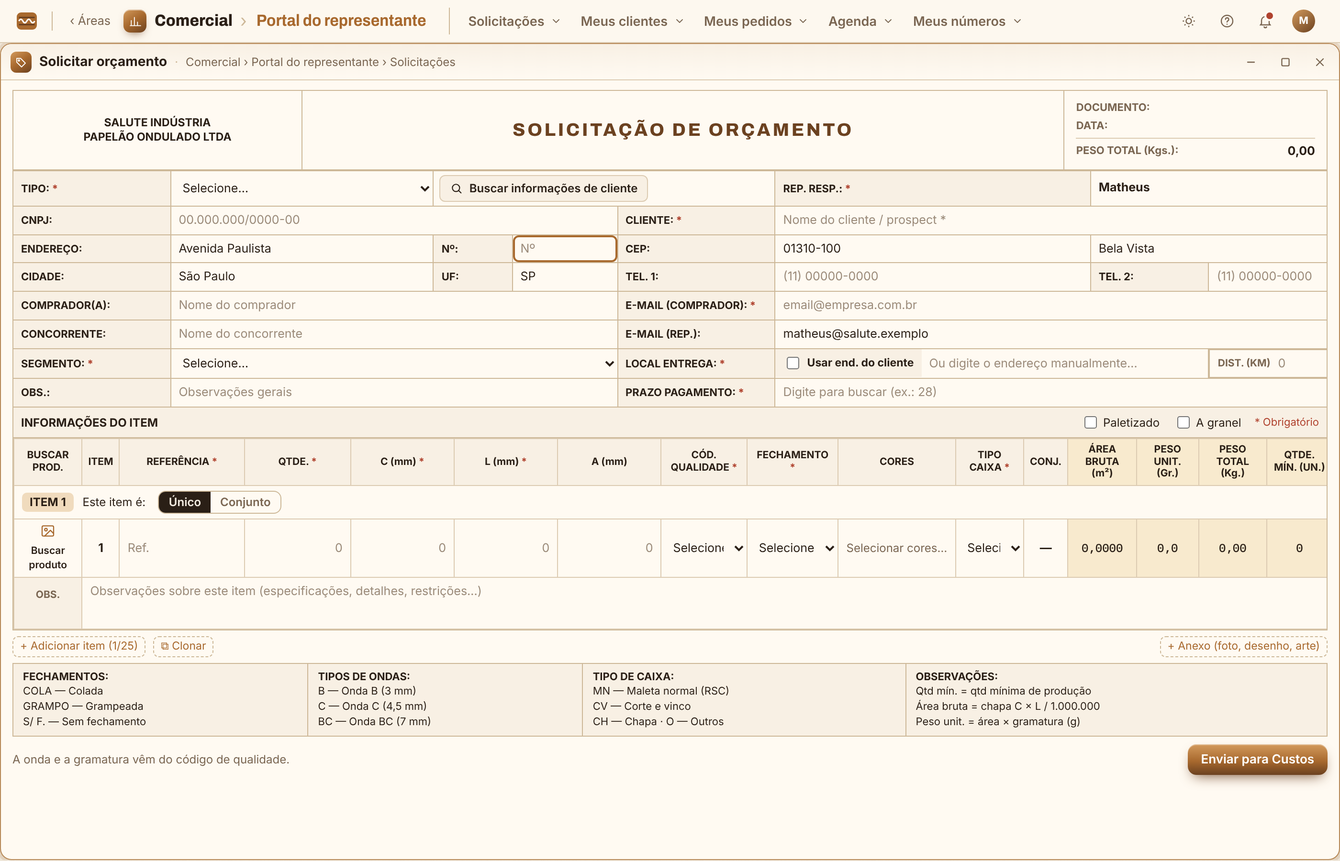
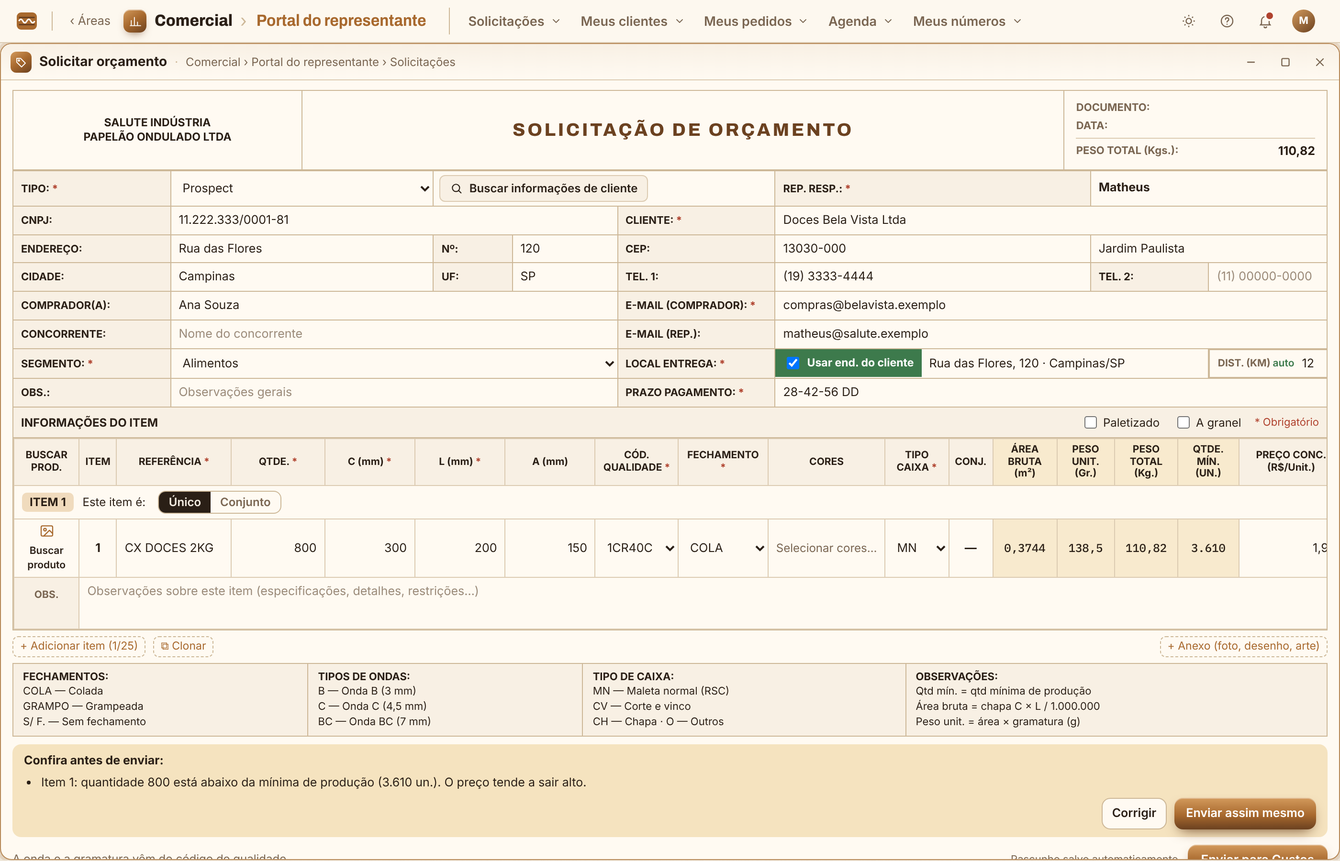
Solicitação de orçamento: CNPJ pela Receita, aviso de outra carteira, carteira com 'gerar solicitação', rascunho, distância, conferência, preço-alvo e sino de preço pronto
Claude-Session: https://claude.ai/code/session_015kL8p4eCaL1huCADCSMStj

diff --git a/prototipo/tela-inicial-e-comercial.html b/prototipo/tela-inicial-e-comercial.html
@@ -602,6 +602,22 @@ textarea.falta{border-color:var(--bad)!important}
 .so-lista small{color:var(--muted)}
 .so-dest select{background:var(--warn-soft)}
 .so-cep{position:relative}
+.so-rasc{display:flex;align-items:center;gap:8px;margin-bottom:6px;padding:5px 10px;border-radius:8px;background:var(--surface-2);font-size:12.5px}
+.so-rasc .mini{margin-left:auto;padding:3px 8px;font-size:12px}
+.so-av{margin:6px 0 0}
+.so-dist span i{font-style:normal;color:var(--ok);font-weight:600}
+.so-confere{margin-top:8px;padding:8px 12px;border-radius:9px;background:var(--warn-soft);font-size:12.5px}
+.so-confere ul{margin:4px 0 6px;padding-left:18px}
+.so-confere span{display:flex;gap:8px;justify-content:flex-end}
+.so-confere .go{padding:5px 12px;font-size:12.5px}
+.so-rodape small{margin-left:auto;font-size:11px;color:var(--muted)}
+.pc-srch{flex:0 1 320px;margin-left:auto}
+.pc-acao{text-align:right;white-space:nowrap}
+.pc-acao .mini{padding:3px 9px;font-size:12px}
+.ps-pdf{display:flex;flex-wrap:wrap;gap:6px;align-items:center;font-size:12.5px}
+.ps-pdf input{flex:0 1 240px;padding:5px 8px;border:1px solid var(--line-2);border-radius:8px;background:var(--surface);color:var(--ink);font:inherit}
+.ps-pdf>span{margin-left:10px;color:var(--muted)}
+#notifMenu{left:auto;right:0;min-width:340px}
 .so-cep span{position:absolute;right:6px;top:7px;font-size:10px;color:var(--muted)}
 .so-fixo{padding:5px 8px!important}
 .so-usar{display:flex;align-items:center;gap:5px;padding:5px 8px;font-size:11.5px;font-weight:700;cursor:pointer;white-space:nowrap;background:var(--surface-2)}
@@ -1387,9 +1403,12 @@ table.cli{width:100%;border-collapse:collapse;min-width:760px;font-size:14px}
         <button type="button" role="menuitem" data-ajuda="meus"><span class="i"><svg viewBox="0 0 24 24" fill="none" stroke="currentColor" stroke-width="1.8" stroke-linecap="round"><path d="M9 6h11M9 12h11M9 18h11M4 6h.01M4 12h.01M4 18h.01"/></svg></span><span class="t">Meus chamados</span><span class="d">Acompanhe suas solicitações pelo protocolo</span></button>
       </div>
     </div>
-    <button class="iconbtn" type="button" aria-label="Notificações: 3 novas">
-      <svg viewBox="0 0 24 24" fill="none" stroke="currentColor" stroke-width="1.8"><path d="M6 16V11a6 6 0 1 1 12 0v5l1.5 2h-15z"/><path d="M10 20.5a2 2 0 0 0 4 0"/></svg><span class="dotn"></span>
-    </button>
+    <div class="ajuda" id="notif">
+      <button class="iconbtn" id="notifBtn" type="button" aria-label="Notificações" aria-haspopup="true" aria-expanded="false" title="Notificações">
+        <svg viewBox="0 0 24 24" fill="none" stroke="currentColor" stroke-width="1.8"><path d="M6 16V11a6 6 0 1 1 12 0v5l1.5 2h-15z"/><path d="M10 20.5a2 2 0 0 0 4 0"/></svg><span class="dotn"></span>
+      </button>
+      <div class="mdrop ajuda-menu notif-menu" id="notifMenu" role="menu" hidden></div>
+    </div>
     <div class="avatar" title="Matheus · Vendedor"><b>M</b><span>Matheus · Vendedor</span></div>
   </div>
 </header>
@@ -2909,6 +2928,31 @@ document.addEventListener('keydown', (e) => {
   fecharAjuda(); if (modalCh) fecharModalCh(); else if (capEl) sairCaptura();
 });
 
+/* ── Notificações (sino). No sistema de verdade vêm do servidor, só as do usuário; também vão por e-mail. ── */
+const NOTIF_FIXAS = [ { t:'Pedido 4509 saiu para entrega', d:'Serra Azul · hoje 07:40', tela:'portalPedidos' } ];
+function listaNotif(){
+  return SOLICITACOES.filter(s => s.tipo === 'Orçamento' && s.etapa === 2 && !s.visto).map(s => ({ t:`Preço pronto · ${s.p}`, d:`${s.cli} · ${s.prod}`, sol:s.p, preco:true }))
+    .concat(SOLICITACOES.filter(s => s.tipo !== 'Orçamento' && s.etapa >= 2 && !s.visto).map(s => ({ t:`${s.tipo}: ${ETAPAS_SOL[s.tipo][s.etapa]} · ${s.p}`, d:`${s.cli} · ${s.prod}`, sol:s.p })))
+    .concat(NOTIF_FIXAS.filter(n => !n.visto));
+}
+const notifBtn = $('notifBtn'), notifMenu = $('notifMenu');
+function marcarNotif(){ const n = listaNotif().length; notifBtn.querySelector('.dotn').hidden = !n; notifBtn.setAttribute('aria-label', n ? `Notificações: ${n} novas` : 'Notificações'); }
+function fecharNotif(){ notifMenu.hidden = true; notifBtn.setAttribute('aria-expanded', 'false'); }
+notifBtn.addEventListener('click', () => {
+  const abrir = notifMenu.hidden; fecharMenus(); fecharArea(); fecharAjuda(); fecharNotif(); if (!abrir) return;
+  const l = listaNotif();
+  notifMenu.innerHTML = l.length ? l.map((n, i) => `<button type="button" role="menuitem" data-nt="${i}"><span class="i">${n.preco ? '💲' : '🔔'}</span><span class="t">${esc(n.t)}</span><span class="d">${esc(n.d)}</span></button>`).join('') : '<p class="cl-txt" style="margin:8px 10px">Nada novo por aqui.</p>';
+  notifMenu._l = l; notifMenu.hidden = false; notifBtn.setAttribute('aria-expanded', 'true');
+});
+notifMenu.addEventListener('click', (e) => {
+  const b = e.target.closest('[data-nt]'); if (!b) return; const n = notifMenu._l[+b.dataset.nt]; fecharNotif();
+  if (n.sol) { SOLICITACOES.find(s => s.p === n.sol).visto = true; abrirTelaPortal('portalSolicitacoes', (x) => { x._abrir = n.sol; }); }
+  else { n.visto = true; abrirTelaPortal(n.tela); }
+  marcarNotif();
+});
+document.addEventListener('click', (e) => { if (!e.target.closest('#notif')) fecharNotif(); });
+setTimeout(marcarNotif, 0);
+
 /* ── modo de captura ── */
 let capEl = null;
 function entrarCaptura(){
@@ -3758,7 +3802,7 @@ TELAS.comRelatorio = (box) => {
 const REP_LOGADO = 'Matheus';
 const SOLICITACOES = [
   { p:'SO-2026-0118', tipo:'Orçamento', cli:'Passo Firme', novo:true, prod:'Caixa para calçados (individual)', data:'26/11', etapa:1, resp:'Custos' },
-  { p:'SO-2026-0112', tipo:'Orçamento', cli:'Horizonte', prod:'Caixa congelados 8 kg (nova)', data:'20/11', etapa:2, resp:'Custos',
+  { p:'SO-2026-0112', tipo:'Orçamento', cli:'Horizonte', prod:'Caixa congelados 8 kg (nova)', data:'20/11', etapa:2, resp:'Custos', email:'renata@horizonte.exemplo',
     faixas:[ [1000, 4.12], [2000, 3.95], [5000, 3.78], [10000, 3.66] ] },
   { p:'SO-2026-0109', tipo:'Amostra', cli:'Horizonte', prod:'Caixa congelados 8 kg', data:'18/11', etapa:1, resp:'Engenharia de produto' },
   { p:'SO-2026-0097', tipo:'Orçamento', cli:'Serra Azul', prod:'Caixa embutidos 6 kg', data:'04/11', etapa:4, resp:'Vendas', pedido:'4509' },
@@ -3785,7 +3829,22 @@ const SEGMENTOS_SO = ['Alimentos','Avicultura (ovos)','Bebidas (refrigerantes e 
 const PRAZOS_SO = ['10 DD','14-28 DD','21-28-35 DD','28 DD','28-35-42','28-42-56 DD','30 DD','30-45 DD','30-60 DD','35 DD','42 DD','45-60 DD','30-45-60','120 DD'];
 const CORES_SO = ['Preto','Azul','Vermelho','Verde','Amarelo','Laranja','Marrom','Branco'];
 const COMPONENTES_SO = ['Caixa','Colmeia','Divisória','Tabuleiro','Separador','Calço','Cantoneira','Divisória montada','Cinta'];
-const novoItemSO = (n) => ({ n, ref:'', qtd:0, c:0, l:0, a:0, qual:'', fech:'', cores:[], tipo:'', conj:false, comps:[], preco:'', obs:'' });
+const novoItemSO = (n) => ({ n, ref:'', qtd:0, c:0, l:0, a:0, qual:'', fech:'', cores:[], tipo:'', conj:false, comps:[], preco:'', alvo:'', obs:'' });
+/* Rascunho automático: no protótipo fica no navegador; no sistema de verdade fica no servidor, por usuário. */
+const RASC_SO = 'rascunhoOrcamento';
+function lerRascunhoSO(){ try { const r = JSON.parse(localStorage.getItem(RASC_SO)); if (r && r.st) return r; } catch {} return null; }
+function apagarRascunhoSO(){ try { localStorage.removeItem(RASC_SO); } catch {} }
+function salvarRascunhoSO(box){
+  const st = box._so; if (!st || !st._mexeu) return;
+  clearTimeout(box._rt); box._rt = setTimeout(() => {
+    const quando = new Date().toLocaleString('pt-BR', { day:'2-digit', month:'2-digit', hour:'2-digit', minute:'2-digit' });
+    try { localStorage.setItem(RASC_SO, JSON.stringify({ quando, st })); } catch {}
+    const e = box.querySelector('[data-so-salvo]'); if (e) e.textContent = 'Rascunho salvo ' + quando.replace(',', ' às');
+  }, 500);
+}
+/* Distância até a fábrica. No sistema de verdade o servidor calcula pelo endereço (serviço de mapas). */
+const DIST_FABRICA = { 'campinas':12, 'sumare':25, 'hortolandia':18, 'americana':38, 'jundiai':45, 'limeira':55, 'piracicaba':70, 'sorocaba':90, 'sao paulo':95, 'mogi das cruzes':140, 'mogi guacu':65, 'araraquara':190, 'ribeirao preto':225, 'pocos de caldas':170, 'pouso alegre':160 };
+function distSO(st){ const alvo = ' ' + norm(st.usarEnd ? st.cidade || '' : st.entrega || '').replace(/\s+/g, ' ') + ' '; for (const [c, k] of Object.entries(DIST_FABRICA)) if (alvo.includes(' ' + c + ' ')) return k; return ''; }
 function calcSO(it){
   const q = QD[it.qual]; if (!q || it.c <= 0 || it.l <= 0) return { area:0, pu:0, pt:0, min:0, onda: q ? q.onda : '' };
   let cc, ll;
@@ -3803,6 +3862,7 @@ TELAS.portalOrcamento = (box) => {
   box.classList.add('cl-box');
   const st = box._so = { tipo:'', cli:null, rep: REP_LOGADO, cnpj:'', nome:'', end:'', num:'', cep:'', bairro:'', cidade:'', uf:'', tel1:'', tel2:'', comprador:'', email:'', concorrente:'', segmento:'', entrega:'', usarEnd:false, dist:'', obs:'', prazo:'', paletizado:false, granel:false, itens:[ novoItemSO(1) ], ativo:0 };
   if (box._preCli) preencherCli(st, box._preCli);
+  else { const r = lerRascunhoSO(); if (r) { Object.assign(st, r.st, { buscando:false }); st._rascunho = r.quando; } }
   desenharSO(box);
   box.addEventListener('input', (e) => lerCampoSO(box, e.target, false));
   box.addEventListener('change', (e) => lerCampoSO(box, e.target, true));
@@ -3812,7 +3872,8 @@ function preencherCli(st, id){
   const c = cliDe(id); if (!c) return;
   const k = c.contatos[0] || {};
   Object.assign(st, { tipo: ehCli(c) ? 'Cliente' : 'Prospect', cli:id, cnpj:c.cnpj, nome:c.razao, end:c.end.log, num:c.end.num, cep:c.end.cep, bairro:c.end.bairro, cidade:c.end.cidade, uf:c.end.uf,
-    tel1:k.tel || '', tel2:k.cel || '', comprador:k.nome || '', email:k.email || '', segmento: SEGMENTOS_SO.find(s => norm(s).includes(norm(c.segmento).slice(0,5))) || '', prazo:'28-42-56 DD' });
+    tel1:k.tel || '', tel2:k.cel || '', comprador:k.nome || '', email:k.email || '', segmento: SEGMENTOS_SO.find(s => norm(s).includes(norm(c.segmento).slice(0,5))) || '', prazo:'28-42-56 DD', outraCarteira:false });
+  st._cnpjBuscado = c.cnpj.replace(/\D/g, ''); st._cepBuscado = c.end.cep.replace(/\D/g, '');
 }
 function lerCampoSO(box, el, redesenha){
   const k = el.dataset.so; if (!k) return;
@@ -3821,7 +3882,10 @@ function lerCampoSO(box, el, redesenha){
   if (mc) { const comp = st.itens[+mc[1]].comps[+mc[2]]; comp[mc[3]] = ['qtd','c','l','a'].includes(mc[3]) ? (+String(v).replace(/\./g, '').replace(',', '.') || 0) : v; }
   else if (m) { const it = st.itens[+m[1]]; it[m[2]] = ['qtd','c','l','a'].includes(m[2]) ? (+String(v).replace(/\./g, '').replace(',', '.') || 0) : v; }
   else st[k] = v;
+  st._mexeu = true;
+  if (k === 'dist') st.distManual = String(v).trim() !== '';
   if (k === 'cep') { const d = String(v).replace(/\D/g, ''); if (d.length === 8 && d !== st._cepBuscado) { st._cepBuscado = d; buscarCepSO(box, d); } }
+  if (k === 'cnpj') { const d = String(v).replace(/\D/g, ''); if (d.length === 14) { st.cnpj = el.value = fmtCnpj(d); } if (d.length === 14 && d !== st._cnpjBuscado) { st._cnpjBuscado = d; buscarCnpjSO(box, d); } }
   if (k === 'tipo' && v === 'Cliente' && !st.cli) toast('Use "Buscar informações de cliente" para puxar os dados');
   if (redesenha && (k === 'usarEnd' || /\.(qual|tipo)$/.test(k))) { if (k === 'usarEnd' && v) st.entrega = st.end ? `${st.end}, ${st.num} · ${st.cidade}/${st.uf}` : ''; return desenharSO(box); }
   atualizarCalcSO(box);
@@ -3841,18 +3905,49 @@ async function buscarCepSO(box, d){
   desenharSO(box); const n = box.querySelector('[data-so="num"]'); if (n) n.focus();
   toast('Endereço preenchido pelo CEP');
 }
+/* CNPJ → dados da Receita. No sistema de verdade: o servidor confere primeiro se o CNPJ já está na
+   nossa base (e de qual carteira) e só depois consulta a Receita (BrasilAPI / ReceitaWS).
+   Se for de outra carteira, o representante NÃO recebe os dados desse cliente: só o aviso. */
+const CNPJS_EXEMPLO = {
+  '11222333000181': ['Doces Bela Vista Ltda','Rua das Flores','120','13030-000','Jardim Paulista','Campinas','SP','(19) 3333-4444','compras@belavista.exemplo'],
+  '22333444000172': ['Hortifruti Boa Colheita Ltda','Estrada Municipal','km 4','13840-000','Zona Rural','Mogi Guaçu','SP','(19) 3861-2200',''],
+};
+const fmtCnpj = (d) => d.replace(/^(\d{2})(\d{3})(\d{3})(\d{4})(\d{2})$/, '$1.$2.$3/$4-$5');
+async function buscarCnpjSO(box, d){
+  const st = box._so, aviso = (t) => { const e = box.querySelector('[data-so-cnpjst]'); if (e) e.textContent = t; };
+  const ja = CLIENTES.find(c => c.cnpj.replace(/\D/g, '') === d);
+  if (ja && ja.rep === REP_LOGADO) { preencherCli(st, ja.id); desenharSO(box); return toast('Cliente da sua carteira: dados preenchidos'); }
+  if (ja) { Object.assign(st, { cli:null, outraCarteira:true, cnpj: fmtCnpj(d), tipo: ehCli(ja) ? 'Cliente' : 'Prospect' }); desenharSO(box); return toast('Este CNPJ já é atendido por outro representante'); }
+  st.outraCarteira = false; aviso('buscando na Receita…');
+  let r = null;
+  try { const ctl = new AbortController(); setTimeout(() => ctl.abort(), 4000);
+    const j = await (await fetch('https://brasilapi.com.br/api/cnpj/v1/' + d, { signal: ctl.signal })).json();
+    if (j && j.razao_social) { const t = String(j.ddd_telefone_1 || '').replace(/\D/g, '');
+      r = [j.razao_social, [j.descricao_tipo_de_logradouro, j.logradouro].filter(Boolean).join(' '), j.numero || '', String(j.cep || '').replace(/^(\d{5})(\d{3})$/, '$1-$2'), j.bairro || '', j.municipio || '', j.uf || '',
+        t.length >= 10 ? `(${t.slice(0,2)}) ${t.slice(2,-4)}-${t.slice(-4)}` : '', (j.email || '').toLowerCase()]; } } catch {}
+  if (!r && CNPJS_EXEMPLO[d]) r = CNPJS_EXEMPLO[d];
+  if (!r) { aviso('CNPJ não encontrado'); return; }
+  const cid = r[5].toLowerCase().replace(/(^|\s)\S/g, (x) => x.toUpperCase()).replace(/ (De|Da|Do|Das|Dos) /g, (x) => x.toLowerCase());
+  Object.assign(st, { tipo:'Prospect', cli:null, cnpj: fmtCnpj(d), nome:r[0], end:r[1], num:r[2], cep:r[3], bairro:r[4], cidade:cid, uf:r[6], tel1: r[7] || st.tel1, email: r[8] || st.email });
+  st._cepBuscado = r[3].replace(/\D/g, '');
+  desenharSO(box); const c = box.querySelector('[data-so="comprador"]'); if (c) c.focus();
+  toast('Dados preenchidos pela Receita · CNPJ novo, vai como Prospect');
+}
 function atualizarCalcSO(box){
   const st = box._so; let tot = 0;
   st.itens.forEach((it, i) => { const r = calcSO(it); tot += r.pt;
     const set = (s, t) => { const e = box.querySelector(`[data-calc="${i}.${s}"]`); if (e) e.textContent = t; };
     set('area', n2(r.area, 4)); set('pu', n2(r.pu, 1)); set('pt', n2(r.pt)); set('min', r.min ? un(r.min) : '0'); });
   const h = box.querySelector('[data-so-peso]'); if (h) h.textContent = n2(tot);
+  if (!st.distManual) { const e = box.querySelector('[data-so="dist"]'); if (e && document.activeElement !== e) e.value = distSO(st); }
+  salvarRascunhoSO(box);
 }
 function desenharSO(box){
   const st = box._so, nItens = st.itens.length;
   const tot = st.itens.reduce((a, it) => a + calcSO(it).pt, 0);
   const R = (rot, obrig) => `<th>${rot}${obrig ? ' <i>*</i>' : ''}</th>`;
   box.innerHTML = `<div class="so-folha">
+  ${st._rascunho ? `<div class="so-rasc">Rascunho de <b>${esc(st._rascunho.replace(',', ' às'))}</b> recuperado: continue de onde parou. <button type="button" class="mini" data-so-descartar>Descartar e começar do zero</button></div>` : ''}
   <table class="so-cab"><tr>
     <td class="so-emp">SALUTE INDÚSTRIA<br>PAPELÃO ONDULADO LTDA</td>
     <td class="so-tit">SOLICITAÇÃO DE ORÇAMENTO</td>
@@ -3863,27 +3958,28 @@ function desenharSO(box){
     <tr>${R('TIPO:', 1)}<td>${sel('tipo', st.tipo, ['Cliente','Prospect'])}</td>
       <td colspan="3"><button type="button" class="so-busca" data-so-buscar>${LUPA} Buscar informações de cliente</button>${st.buscando ? `<div class="so-lista">${minhaCarteira().map(c => `<button type="button" data-so-cli="${c.id}"><b>${esc(nomeExib(c))}</b> <small>${c.cnpj} · ${esc(c.end.cidade)}</small></button>`).join('')}</div>` : ''}</td>
       ${R('REP. RESP.:', 1)}<td colspan="2" class="so-fixo"><b>${esc(REP_LOGADO)}</b></td></tr>
-    <tr>${R('CNPJ:')}<td colspan="3">${inp('cnpj', st.cnpj, '00.000.000/0000-00')}</td>${R('CLIENTE:', 1)}<td colspan="3">${inp('nome', st.nome, 'Nome do cliente / prospect *')}</td></tr>
+    <tr>${R('CNPJ:')}<td colspan="3" class="so-cep">${inp('cnpj', st.cnpj, 'Digite o CNPJ: busca na Receita', 'maxlength="18" inputmode="numeric"')}<span data-so-cnpjst></span></td>${R('CLIENTE:', 1)}<td colspan="3">${inp('nome', st.nome, 'Nome do cliente / prospect *')}</td></tr>
     <tr>${R('ENDEREÇO:')}<td>${inp('end', st.end, 'Rua / Av.')}</td>${R('Nº:')}<td>${inp('num', st.num, 'Nº')}</td>${R('CEP:')}<td class="so-cep">${inp('cep', st.cep, '00000-000', 'maxlength="9" inputmode="numeric"')}<span data-so-cepst></span></td><td colspan="2">${inp('bairro', st.bairro, 'Bairro')}</td></tr>
     <tr>${R('CIDADE:')}<td>${inp('cidade', st.cidade, 'Cidade')}</td>${R('UF:')}<td>${inp('uf', st.uf, 'SP')}</td>${R('TEL. 1:')}<td>${inp('tel1', st.tel1, '(11) 00000-0000')}</td>${R('TEL. 2:')}<td>${inp('tel2', st.tel2, '(11) 00000-0000')}</td></tr>
     <tr>${R('COMPRADOR(A):')}<td colspan="3">${inp('comprador', st.comprador, 'Nome do comprador')}</td>${R('E-MAIL (COMPRADOR):', 1)}<td colspan="3">${inp('email', st.email, 'email@empresa.com.br')}</td></tr>
     <tr>${R('CONCORRENTE:')}<td colspan="3">${inp('concorrente', st.concorrente, 'Nome do concorrente')}</td>${R('E-MAIL (REP.):')}<td colspan="3" class="so-fixo">matheus@salute.exemplo</td></tr>
-    <tr>${R('SEGMENTO:', 1)}<td colspan="3">${sel('segmento', st.segmento, SEGMENTOS_SO)}</td>${R('LOCAL ENTREGA:', 1)}<td colspan="2"><div class="so-ent"><label class="so-usar${st.usarEnd ? ' on' : ''}"><input type="checkbox" data-so="usarEnd"${st.usarEnd ? ' checked' : ''}> Usar end. do cliente</label>${inp('entrega', st.entrega, 'Ou digite o endereço manualmente…')}</div></td><td class="so-dist"><span>DIST. (KM)</span>${inp('dist', st.dist || (st.usarEnd ? '12' : ''), '0')}</td></tr>
+    <tr>${R('SEGMENTO:', 1)}<td colspan="3">${sel('segmento', st.segmento, SEGMENTOS_SO)}</td>${R('LOCAL ENTREGA:', 1)}<td colspan="2"><div class="so-ent"><label class="so-usar${st.usarEnd ? ' on' : ''}"><input type="checkbox" data-so="usarEnd"${st.usarEnd ? ' checked' : ''}> Usar end. do cliente</label>${inp('entrega', st.entrega, 'Ou digite o endereço manualmente…')}</div></td><td class="so-dist"><span>DIST. (KM)${st.distManual ? '' : ' <i>auto</i>'}</span>${inp('dist', st.distManual ? st.dist : distSO(st), '—', 'title="Calculada pelo endereço de entrega. Pode corrigir."')}</td></tr>
     <tr>${R('OBS.:')}<td colspan="3">${inp('obs', st.obs, 'Observações gerais')}</td>${R('PRAZO PAGAMENTO:', 1)}<td colspan="3">${inp('prazo', st.prazo, 'Digite para buscar (ex.: 28)', 'list="soPrazos" autocomplete="off"')}<datalist id="soPrazos">${PRAZOS_SO.map(x => `<option value="${x}">`).join('')}</datalist></td></tr>
   </table>
+  ${st.outraCarteira ? `<div class="cl-aviso so-av">${IAVISO}<span><b>Este CNPJ já é atendido por outro representante.</b> Os dados desse cliente não aparecem para você. Se enviar, a solicitação passa primeiro pela <b>supervisão</b>, que decide quem atende.</span></div>` : ''}
   <div class="so-secao"><b>INFORMAÇÕES DO ITEM</b><span><label><input type="checkbox" data-so="paletizado"${st.paletizado ? ' checked' : ''}> Paletizado</label><label><input type="checkbox" data-so="granel"${st.granel ? ' checked' : ''}> A granel</label><i>* Obrigatório</i></span></div>
-  <div class="so-rolagem"><table class="so-itens"><thead><tr><th>BUSCAR PROD.</th><th>ITEM</th>${R('REFERÊNCIA', 1)}${R('QTDE.', 1)}${R('C (mm)', 1)}${R('L (mm)', 1)}<th>A (mm)</th>${R('CÓD. QUALIDADE', 1)}${R('FECHAMENTO', 1)}<th>CORES</th>${R('TIPO CAIXA', 1)}<th>CONJ.</th><th class="so-calc">ÁREA BRUTA (m²)</th><th class="so-calc">PESO UNIT. (Gr.)</th><th class="so-calc">PESO TOTAL (Kg.)</th><th class="so-calc">QTDE. MÍN. (UN.)</th><th>PREÇO CONC. (R$/Unit.)</th></tr></thead>
+  <div class="so-rolagem"><table class="so-itens"><thead><tr><th>BUSCAR PROD.</th><th>ITEM</th>${R('REFERÊNCIA', 1)}${R('QTDE.', 1)}${R('C (mm)', 1)}${R('L (mm)', 1)}<th>A (mm)</th>${R('CÓD. QUALIDADE', 1)}${R('FECHAMENTO', 1)}<th>CORES</th>${R('TIPO CAIXA', 1)}<th>CONJ.</th><th class="so-calc">ÁREA BRUTA (m²)</th><th class="so-calc">PESO UNIT. (Gr.)</th><th class="so-calc">PESO TOTAL (Kg.)</th><th class="so-calc">QTDE. MÍN. (UN.)</th><th>PREÇO CONC. (R$/Unit.)</th><th>PREÇO ALVO (R$/Unit.)</th></tr></thead>
   <tbody>${st.itens.map((it, i) => { const r = calcSO(it), k = (c) => `it${i}.${c}`; return `
-    <tr class="so-itcab"><td colspan="17"><span class="so-itnum">ITEM ${it.n}</span> Este item é: <span class="po-seg"><button type="button" data-so-conj="${i}.0" aria-pressed="${!it.conj}">Único</button><button type="button" data-so-conj="${i}.1" aria-pressed="${it.conj}">Conjunto</button></span>${nItens > 1 ? `<button type="button" class="pd-x" data-so-rm="${i}" title="Remover item">×</button>` : ''}</td></tr>
+    <tr class="so-itcab"><td colspan="18"><span class="so-itnum">ITEM ${it.n}</span> Este item é: <span class="po-seg"><button type="button" data-so-conj="${i}.0" aria-pressed="${!it.conj}">Único</button><button type="button" data-so-conj="${i}.1" aria-pressed="${it.conj}">Conjunto</button></span>${nItens > 1 ? `<button type="button" class="pd-x" data-so-rm="${i}" title="Remover item">×</button>` : ''}</td></tr>
     <tr><td class="so-bp"><button type="button" data-so-prod="${i}">${IIMG}<br>Buscar produto</button></td><td class="so-n">${it.n}</td>
       <td>${inp(k('ref'), it.ref, 'Ref.')}</td><td>${inp(k('qtd'), it.qtd || '', '0', 'class="num"')}</td><td>${inp(k('c'), it.c || '', '0', 'class="num"')}</td><td>${inp(k('l'), it.l || '', '0', 'class="num"')}</td><td>${inp(k('a'), it.a || '', '0', 'class="num"')}</td>
       <td>${sel(k('qual'), it.qual, QUALIDADES.map(q => q[0]), 'class="so-forte"')}</td><td>${sel(k('fech'), it.fech, [['COLA','COLA'],['GRAMPO','GRAMPO'],['S/ F.','S/ F.']])}</td>
       <td><details class="so-cores"><summary>${it.cores.length ? esc(it.cores.join(', ')) : 'Selecionar cores…'}</summary><div>${CORES_SO.map(c => `<label><input type="checkbox" data-so-cor="${i}" value="${c}"${it.cores.includes(c) ? ' checked' : ''}> ${c}</label>`).join('')}</div></details></td>
       <td>${sel(k('tipo'), it.tipo, [['MN','MN'],['CV','CV'],['CH','CH'],['O','O']])}</td><td class="so-n">${it.conj ? it.comps.length + 1 : '—'}</td>
       <td class="so-calc" data-calc="${i}.area">${n2(r.area, 4)}</td><td class="so-calc" data-calc="${i}.pu">${n2(r.pu, 1)}</td><td class="so-calc" data-calc="${i}.pt">${n2(r.pt)}</td><td class="so-calc" data-calc="${i}.min">${r.min ? un(r.min) : '0'}</td>
-      <td>${inp(k('preco'), it.preco, 'R$ 0,00', 'class="num"')}</td></tr>
-    ${it.conj ? `<tr class="so-comps"><td colspan="17"><table><thead><tr><th>COMPONENTE</th><th>REFERÊNCIA</th><th>QTDE.</th><th>C (mm)</th><th>L (mm)</th><th>A (mm)</th><th>CÓD. QUALIDADE</th><th></th></tr></thead><tbody>${it.comps.map((cp, j) => { const kk = (c) => `it${i}.comp${j}.${c}`; return `<tr><td>${sel(kk('tipo'), cp.tipo, COMPONENTES_SO)}</td><td>${inp(kk('ref'), cp.ref, 'Ref.')}</td><td>${inp(kk('qtd'), cp.qtd || '', '0', 'class="num"')}</td><td>${inp(kk('c'), cp.c || '', '0', 'class="num"')}</td><td>${inp(kk('l'), cp.l || '', '0', 'class="num"')}</td><td>${cp.tipo === 'Caixa' ? inp(kk('a'), cp.a || '', '0', 'class="num"') : '<span class="so-na">✕</span>'}</td><td>${sel(kk('qual'), cp.qual, QUALIDADES.map(q => q[0]))}</td><td><button type="button" class="pd-x" data-so-rmc="${i}.${j}">×</button></td></tr>`; }).join('')}</tbody></table><button type="button" class="pd-mais" data-so-addc="${i}">+ Componente</button></td></tr>` : ''}
-    <tr class="so-obs"><td class="so-obsrot">OBS.</td><td colspan="16"><textarea data-so="${k('obs')}" placeholder="Observações sobre este item (especificações, detalhes, restrições…)">${esc(it.obs)}</textarea></td></tr>`; }).join('')}
+      <td>${inp(k('preco'), it.preco, 'R$ 0,00', 'class="num"')}</td><td>${inp(k('alvo'), it.alvo, 'R$ 0,00', 'class="num" title="Quanto o cliente quer pagar"')}</td></tr>
+    ${it.conj ? `<tr class="so-comps"><td colspan="18"><table><thead><tr><th>COMPONENTE</th><th>REFERÊNCIA</th><th>QTDE.</th><th>C (mm)</th><th>L (mm)</th><th>A (mm)</th><th>CÓD. QUALIDADE</th><th></th></tr></thead><tbody>${it.comps.map((cp, j) => { const kk = (c) => `it${i}.comp${j}.${c}`; return `<tr><td>${sel(kk('tipo'), cp.tipo, COMPONENTES_SO)}</td><td>${inp(kk('ref'), cp.ref, 'Ref.')}</td><td>${inp(kk('qtd'), cp.qtd || '', '0', 'class="num"')}</td><td>${inp(kk('c'), cp.c || '', '0', 'class="num"')}</td><td>${inp(kk('l'), cp.l || '', '0', 'class="num"')}</td><td>${cp.tipo === 'Caixa' ? inp(kk('a'), cp.a || '', '0', 'class="num"') : '<span class="so-na">✕</span>'}</td><td>${sel(kk('qual'), cp.qual, QUALIDADES.map(q => q[0]))}</td><td><button type="button" class="pd-x" data-so-rmc="${i}.${j}">×</button></td></tr>`; }).join('')}</tbody></table><button type="button" class="pd-mais" data-so-addc="${i}">+ Componente</button></td></tr>` : ''}
+    <tr class="so-obs"><td class="so-obsrot">OBS.</td><td colspan="17"><textarea data-so="${k('obs')}" placeholder="Observações sobre este item (especificações, detalhes, restrições…)">${esc(it.obs)}</textarea></td></tr>`; }).join('')}
   </tbody></table></div>
   <div class="so-acoes-it"><button type="button" class="pd-mais" data-so-add${nItens >= 25 ? ' disabled' : ''}>+ Adicionar item (${nItens}/25)</button><button type="button" class="pd-mais" data-so-clonar>⧉ Clonar</button>
     <span class="so-anexos">${(st.anexos || []).map(a => `<span class="pd-ent">📎 ${esc(a)}</span>`).join('')}<button type="button" class="pd-mais" data-so-anexo>+ Anexo (foto, desenho, arte)</button></span></div>
@@ -3893,11 +3989,18 @@ function desenharSO(box){
     <td><b>TIPO DE CAIXA:</b><br>MN — Maleta normal (RSC)<br>CV — Corte e vinco<br>CH — Chapa · O — Outros</td>
     <td><b>OBSERVAÇÕES:</b><br>Qtd mín. = qtd mínima de produção<br>Área bruta = chapa C × L / 1.000.000<br>Peso unit. = área × gramatura (g)</td>
   </tr></table>
-  <div class="so-rodape"><span>A onda e a gramatura vêm do código de qualidade.</span><button type="button" class="go" data-so-enviar>Enviar para Custos</button></div>
+  ${st._confere ? `<div class="so-confere"><b>Confira antes de enviar:</b><ul>${st._confere.map(a => `<li>${esc(a)}</li>`).join('')}</ul><span><button type="button" class="mini" data-so-corrigir>Corrigir</button><button type="button" class="go" data-so-enviar-mesmo>Enviar assim mesmo</button></span></div>` : ''}
+  <div class="so-rodape"><span>A onda e a gramatura vêm do código de qualidade.</span><small data-so-salvo>${st._mexeu || st._rascunho ? 'Rascunho salvo automaticamente' : ''}</small><button type="button" class="go" data-so-enviar>${st.outraCarteira ? 'Enviar para a supervisão' : 'Enviar para Custos'}</button></div>
   </div>`;
+  salvarRascunhoSO(box);
 }
 function cliqueSO(box, e){
   const st = box._so, t = (s) => e.target.closest(s);
+  if (e.target.closest('button,input[type=checkbox]') && !t('[data-so-enviar],[data-so-nova],[data-so-descartar]')) st._mexeu = true;
+  if (t('[data-so-descartar]')) { apagarRascunhoSO(); box._preCli = null; const novo = document.createElement('div'); novo.className = 'jan-corpo'; box.replaceWith(novo); TELAS.portalOrcamento(novo); return toast('Rascunho descartado'); }
+  if (t('[data-so-corrigir]')) { st._confere = null; return desenharSO(box); }
+  if (t('[data-so-enviar-mesmo]')) return enviarSO(box, true);
+  if (t('[data-so-enviar]')) return enviarSO(box, false);
   if (t('[data-so-buscar]')) { st.buscando = !st.buscando; return desenharSO(box); }
   if (t('[data-so-cli]')) { preencherCli(st, +t('[data-so-cli]').dataset.soCli); st.buscando = false; desenharSO(box); return toast('Dados do cliente preenchidos'); }
   if (t('[data-so-conj]')) { const [i, v] = t('[data-so-conj]').dataset.soConj.split('.'); const it = st.itens[+i]; it.conj = v === '1'; if (it.conj && !it.comps.length) it.comps.push({ tipo:'Divisória', ref:'', qtd:0, c:0, l:0, a:0, qual:'' }); return desenharSO(box); }
@@ -3913,18 +4016,27 @@ function cliqueSO(box, e){
   const cor = e.target.closest('[data-so-cor]');
   if (cor && e.target.tagName === 'INPUT') { const it = st.itens[+cor.dataset.soCor]; it.cores = e.target.checked ? it.cores.concat(e.target.value) : it.cores.filter(x => x !== e.target.value); e.target.closest('details').querySelector('summary').textContent = it.cores.length ? it.cores.join(', ') : 'Selecionar cores…'; return; }
   if (t('[data-so-anexo]')) { st.anexos = (st.anexos || []).concat('arquivo-' + ((st.anexos || []).length + 1) + '.pdf'); return desenharSO(box); }
-  if (t('[data-so-enviar]')) {
-    const falta = [];
-    if (!st.tipo) falta.push('Tipo'); if (!st.nome) falta.push('Cliente'); if (!st.email) falta.push('E-mail do comprador'); if (!st.segmento) falta.push('Segmento');
-    if (!st.entrega && !st.usarEnd) falta.push('Local de entrega'); if (!st.prazo) falta.push('Prazo de pagamento');
-    st.itens.forEach(it => { const f = []; if (!it.ref) f.push('Referência'); if (!it.qtd) f.push('Qtde'); if (!it.c) f.push('C'); if (!it.l) f.push('L'); if (!it.qual) f.push('Cód. qualidade'); if (!it.fech) f.push('Fechamento'); if (!it.tipo) f.push('Tipo caixa'); if (f.length) falta.push(`Item ${it.n}: ${f.join(', ')}`); });
-    if (falta.length) { box.querySelector('.so-rodape span').innerHTML = `<b class="so-erro">Falta preencher:</b> ${esc(falta.join(' · '))}`; return toast('Preencha os campos obrigatórios (*)'); }
-    const n = 'SO-2026-' + String(Math.max(...SOLICITACOES.map(s => +s.p.slice(-4))) + 1).padStart(4, '0');
-    SOLICITACOES.unshift({ p:n, tipo:'Orçamento', cli: st.nome, novo: st.tipo === 'Prospect' && !st.cli, prod: st.itens.map(it => it.ref).join(', '), data:'27/11', etapa:0, resp:'Custos' });
-    document.querySelectorAll('[data-po-lista]').forEach(b => b._redesenha && b._redesenha());
-    box.innerHTML = `<div class="cl-novo-tela"><div class="okbox"><span>✓</span><span>Solicitação <b class="proto">${n}</b> enviada para <b>Custos</b> · ${st.itens.length} ${st.itens.length > 1 ? 'itens' : 'item'} · peso total ${n2(st.itens.reduce((a, it) => a + calcSO(it).pt, 0))} kg.<br>Você acompanha em Minhas solicitações.</span></div><div><button class="btn2" type="button" data-so-nova>Nova solicitação</button></div></div>`;
-  }
-  if (t('[data-so-nova]')) { box._preCli = null; TELAS.portalOrcamento(box); }
+  if (t('[data-so-nova]')) { box._preCli = null; const novo = document.createElement('div'); novo.className = 'jan-corpo'; box.replaceWith(novo); TELAS.portalOrcamento(novo); }
+}
+/* Envio com conferência: o que falta barra; o que parece estranho só avisa (o servidor confere tudo de novo). */
+function enviarSO(box, forcar){
+  const st = box._so, falta = [], avisos = [];
+  if (!st.tipo) falta.push('Tipo'); if (!st.nome && !st.outraCarteira) falta.push('Cliente'); if (!st.email) falta.push('E-mail do comprador'); if (!st.segmento) falta.push('Segmento');
+  if (!st.entrega && !st.usarEnd) falta.push('Local de entrega'); if (!st.prazo) falta.push('Prazo de pagamento');
+  st.itens.forEach(it => { const f = []; if (!it.ref) f.push('Referência'); if (!it.qtd) f.push('Qtde'); if (!it.c) f.push('C'); if (!it.l) f.push('L');
+    if (it.tipo === 'MN' && !it.a) f.push('A (altura: obrigatória em caixa maleta)'); if (!it.qual) f.push('Cód. qualidade'); if (!it.fech) f.push('Fechamento'); if (!it.tipo) f.push('Tipo caixa');
+    if (f.length) falta.push(`Item ${it.n}: ${f.join(', ')}`);
+    const r = calcSO(it); if (it.qtd && r.min && it.qtd < r.min) avisos.push(`Item ${it.n}: quantidade ${un(it.qtd)} está abaixo da mínima de produção (${un(r.min)} un.). O preço tende a sair alto.`);
+    if (it.conj && !it.comps.some(cp => cp.qtd && cp.c && cp.l)) avisos.push(`Item ${it.n}: marcado como conjunto, mas os componentes estão sem medida ou quantidade.`); });
+  if (st.tipo === 'Prospect' && !st.cnpj) avisos.push('Prospect sem CNPJ: Vendas vai precisar dele para cadastrar.');
+  if (!st.distManual && !distSO(st) && (st.entrega || st.usarEnd)) avisos.push('Não foi possível calcular a distância da entrega: Custos vai estimar o frete.');
+  if (falta.length) { st._confere = null; desenharSO(box); box.querySelector('.so-rodape span').innerHTML = `<b class="so-erro">Falta preencher:</b> ${esc(falta.join(' · '))}`; return toast('Preencha os campos obrigatórios (*)'); }
+  if (avisos.length && !forcar) { st._confere = avisos; desenharSO(box); box.querySelector('.so-confere').scrollIntoView({ block:'nearest' }); return; }
+  const n = 'SO-2026-' + String(Math.max(...SOLICITACOES.map(s => +s.p.slice(-4))) + 1).padStart(4, '0'), para = st.outraCarteira ? 'Supervisão' : 'Custos';
+  SOLICITACOES.unshift({ p:n, tipo:'Orçamento', cli: st.nome || st.cnpj, novo: st.tipo === 'Prospect' && !st.cli, prod: st.itens.map(it => it.ref).join(', '), data:'', etapa:0, resp: para, email: st.email, comprador: st.comprador });
+  apagarRascunhoSO(); st._mexeu = false;
+  document.querySelectorAll('[data-po-lista]').forEach(b => b._redesenha && b._redesenha());
+  box.innerHTML = `<div class="cl-novo-tela"><div class="okbox"><span>✓</span><span>Solicitação <b class="proto">${n}</b> enviada para <b>${para}</b> · ${st.itens.length} ${st.itens.length > 1 ? 'itens' : 'item'} · peso total ${n2(st.itens.reduce((a, it) => a + calcSO(it).pt, 0))} kg.<br>${st.outraCarteira ? 'A supervisão decide quem atende este cliente. ' : ''}Quando o preço ficar pronto, você recebe um aviso no sino e por e-mail.</span></div><div><button class="btn2" type="button" data-so-nova>Nova solicitação</button></div></div>`;
 }
 
 /* ── Pedir amostra / clichê / desenvolvimento (mesmo formulário, tipo diferente) ── */
@@ -3954,7 +4066,7 @@ TELAS.portalDesenv = telaPedidoSimples('Desenvolvimento', 'O que precisa ser des
 
 /* ── Minhas solicitações ── */
 TELAS.portalSolicitacoes = (box) => {
-  box.classList.add('cl-box'); box.dataset.poLista = ''; box._sel = null;
+  box.classList.add('cl-box'); box.dataset.poLista = ''; box._sel = box._abrir || null;
   const desenha = () => {
     if (box._sel) {
       const s = SOLICITACOES.find(x => x.p === box._sel), et = ETAPAS_SOL[s.tipo];
@@ -3963,7 +4075,7 @@ TELAS.portalSolicitacoes = (box) => {
         <div class="pd-corpo">
           <section class="cl-bloco"><h4>Com quem está</h4><p class="cl-txt">${esc(s.resp)}${s.etapa === 0 ? ' · ainda não foi aberta' : ''}</p></section>
           ${s.faixas ? `<section class="cl-bloco"><h4>Preço pronto <small>preço unitário por quantidade · válido 30 dias</small></h4><table class="pd-tab"><thead><tr><th>Quantidade</th><th class="num">Preço unitário</th><th class="num">Total</th></tr></thead><tbody>${s.faixas.map(([q, v]) => `<tr><td>${un(q)}</td><td class="num">${brl(v)}</td><td class="num">${brl(q * v)}</td></tr>`).join('')}</tbody></table>
-            <div class="cl-dica">Leve ao cliente. Quando ele aceitar, avise Vendas: o orçamento é aprovado e vira pedido.</div><div><button class="go" type="button" data-ps-aceito>Cliente aceitou</button> <button class="btn2" type="button" data-ps-pdf>PDF para o cliente</button></div></section>` : ''}
+            <div class="cl-dica">Leve ao cliente. Quando ele aceitar, avise Vendas: o orçamento é aprovado e vira pedido.</div><div class="ps-pdf"><button class="go" type="button" data-ps-aceito>Cliente aceitou</button><span>Enviar PDF ao comprador:</span><input data-ps-email value="${esc(s.email || '')}" placeholder="email do comprador"><button class="btn2" type="button" data-ps-pdf>Enviar PDF</button><button class="mini" type="button" data-ps-ver>Ver PDF</button></div>${s.pdfEnviado ? `<div class="cl-txt">✓ PDF enviado para ${esc(s.pdfEnviado)}</div>` : ''}</section>` : ''}
           ${s.pedido ? `<section class="cl-bloco"><h4>Virou o pedido ${s.pedido}</h4><p class="cl-txt">Acompanhe em Meus pedidos.</p></section>` : ''}
           <section class="cl-bloco"><h4>Conversa</h4><div class="so-edicao-sempre cl-novo-reg"><input placeholder="Escreva uma dúvida ou complemento para ${esc(s.resp)}…"><button class="mini" type="button" data-ps-msg>Enviar</button></div></section>
         </div></div>`; return;
@@ -3976,11 +4088,26 @@ TELAS.portalSolicitacoes = (box) => {
     const r = e.target.closest('[data-ps]'); if (r) { box._sel = r.dataset.ps; return desenha(); }
     if (e.target.closest('[data-ps-volta]')) { box._sel = null; return desenha(); }
     if (e.target.closest('[data-ps-aceito]')) { const s = SOLICITACOES.find(x => x.p === box._sel); s.etapa = 3; s.resp = 'Vendas'; desenha(); return toast('Vendas foi avisada para aprovar e gerar o pedido'); }
-    if (e.target.closest('[data-ps-pdf]')) return toast('Geraria o PDF do orçamento com a cara da empresa');
+    if (e.target.closest('[data-ps-ver]')) return toast('Abriria o PDF do orçamento com a cara da empresa (só preço, sem custo)');
+    if (e.target.closest('[data-ps-pdf]')) { const s = SOLICITACOES.find(x => x.p === box._sel), em = box.querySelector('[data-ps-email]').value.trim();
+      if (!/^[^@\s]+@[^@\s]+\.[^@\s]+$/.test(em)) return toast('Informe um e-mail válido');
+      s.pdfEnviado = em; desenha(); return toast('PDF enviado para ' + em); }
     if (e.target.closest('[data-ps-msg]')) { const i = box.querySelector('.cl-novo-reg input'); if (i.value) { toast('Mensagem enviada'); i.value = ''; } }
   });
   desenha();
 };
+
+/* Abre uma tela do Portal já preparada (cliente escolhido, solicitação aberta…), de qualquer lugar. */
+function abrirTelaPortal(tela, prep){
+  const ir = () => {
+    const tp = TOPICOS['comercial/representantes'].find(x => x.itens.some(i => i.tela === tela)), it = tp.itens.find(i => i.tela === tela);
+    abrirJanela(tp, it);
+    const j = JANELAS.find(x => x.chave === atual.ctx + '›' + tp.nome + '›' + it.t), velho = j.el.querySelector('.jan-corpo');
+    const novo = document.createElement('div'); novo.className = 'jan-corpo'; if (prep) prep(novo); velho.replaceWith(novo); TELAS[tela](novo);
+  };
+  if (!atual || atual.ctx !== 'comercial/representantes') { location.hash = 'comercial/representantes'; setTimeout(ir, 80); } else ir();
+}
+const abrirOrcamentoCom = (id) => abrirTelaPortal('portalOrcamento', (n) => { n._preCli = id; });
 
 /* ── Carteira de clientes (só os dele) ── */
 TELAS.portalCarteira = (box) => {
@@ -4000,18 +4127,16 @@ TELAS.portalCarteira = (box) => {
           <div class="cl-dica">Você vê só os clientes da sua carteira. Custos, margens e limites de crédito não aparecem aqui.</div>
         </div></div>`; return;
     }
-    box.innerHTML = `<div class="cl-topo"><span class="cl-txt"><b>${l.length}</b> clientes na sua carteira</span></div><div class="pd-linhas"><table class="pd-tab"><thead><tr><th>Cliente</th><th>Cidade</th><th>Último pedido</th><th class="num">Compras 12 meses</th><th>Situação</th></tr></thead><tbody>
-      ${l.map(c => `<tr data-pc="${c.id}"><td><b>${esc(nomeExib(c))}</b><small class="cl-txt"> ${esc(c.razao)}</small></td><td>${esc(c.end.cidade)}/${c.end.uf}</td><td>${ehCli(c) ? c.resumo.ultimo : '—'}</td><td class="num">${ehCli(c) ? c.resumo.fat12 : '—'}</td><td>${!ehCli(c) ? '<span class="pill p-info">Prospect</span>' : c.status !== 'Ativo' ? '<span class="pill p-bad">Sem comprar</span>' : '<span class="pill p-ok">Ativo</span>'}</td></tr>`).join('')}</tbody></table></div>`;
+    box.innerHTML = `<div class="cl-topo"><span class="cl-txt"><b>${l.length}</b> clientes na sua carteira</span><label class="srch pc-srch">${LUPA}<input data-pc-busca placeholder="Buscar por nome, CNPJ ou cidade…" autocomplete="off"></label></div><div class="pd-linhas"><table class="pd-tab"><thead><tr><th>Cliente</th><th>CNPJ</th><th>Cidade</th><th>Último pedido</th><th class="num">Compras 12 meses</th><th>Situação</th><th></th></tr></thead><tbody>
+      ${l.map(c => `<tr data-pc="${c.id}" data-pc-txt="${esc(norm(nomeExib(c) + ' ' + c.razao + ' ' + c.cnpj.replace(/\D/g, '') + ' ' + c.end.cidade))}"><td><b>${esc(nomeExib(c))}</b><small class="cl-txt"> ${esc(c.razao)}</small></td><td class="mono">${c.cnpj}</td><td>${esc(c.end.cidade)}/${c.end.uf}</td><td>${ehCli(c) ? c.resumo.ultimo : '—'}</td><td class="num">${ehCli(c) ? c.resumo.fat12 : '—'}</td><td>${!ehCli(c) ? '<span class="pill p-info">Prospect</span>' : c.status !== 'Ativo' ? '<span class="pill p-bad">Sem comprar</span>' : '<span class="pill p-ok">Ativo</span>'}</td><td class="pc-acao"><button type="button" class="mini" data-pc-orc-id="${c.id}">Gerar solicitação de orçamento</button></td></tr>`).join('')}</tbody></table></div>`;
   };
+  box.addEventListener('input', (e) => { if (!e.target.matches('[data-pc-busca]')) return; const q = norm(e.target.value).trim(), qd = e.target.value.replace(/\D/g, '');
+    box.querySelectorAll('[data-pc-txt]').forEach(tr => tr.hidden = !!q && !tr.dataset.pcTxt.includes(q) && !(qd.length > 2 && tr.dataset.pcTxt.includes(qd))); });
   box.addEventListener('click', (e) => {
+    const o = e.target.closest('[data-pc-orc-id]'); if (o) return abrirOrcamentoCom(+o.dataset.pcOrcId);
     const r = e.target.closest('[data-pc]'); if (r) { box._sel = +r.dataset.pc; return desenha(); }
     if (e.target.closest('[data-pc-volta]')) { box._sel = null; return desenha(); }
-    if (e.target.closest('[data-pc-orc]')) {
-      const tp = TOPICOS['comercial/representantes'][0], it = tp.itens[0];
-      abrirJanela(tp, it);
-      const j = JANELAS.find(x => x.chave === atual.ctx + '›' + tp.nome + '›' + it.t), velho = j.el.querySelector('.jan-corpo');
-      const novo = document.createElement('div'); novo.className = 'jan-corpo'; novo._preCli = box._sel; velho.replaceWith(novo); TELAS.portalOrcamento(novo);
-    }
+    if (e.target.closest('[data-pc-orc]')) abrirOrcamentoCom(box._sel);
   });
   desenha();
 };

diff --git a/README.md b/README.md
@@ -702,6 +702,24 @@ do sistema (com IA) respeitando o que cada usuário pode acessar.
   enviada); **Rep. resp. = nome do usuário logado**, fixo; Tipo sem frase explicativa; **prazo de
   pagamento é campo de digitar com busca**; **CEP busca o endereço sozinho** (rua, bairro,
   cidade, UF) — no sistema de verdade a consulta passa pelo servidor (ViaCEP / BrasilAPI).
+  **Melhorias aprovadas:**
+  - **CNPJ busca na Receita** e preenche razão social, endereço, telefone e e-mail; CNPJ novo vai
+    como Prospect. Se o CNPJ já é da carteira dele, puxa o cadastro nosso.
+  - **CNPJ de outra carteira:** aviso "já atendido por outro representante"; ele **não vê os dados**
+    desse cliente e a solicitação vai primeiro para a **supervisão** decidir quem atende.
+  - **Carteira de clientes** com busca (nome, CNPJ, cidade) e botão **"Gerar solicitação de
+    orçamento"** em cada cliente, que abre a ficha já preenchida (no lugar de "repetir orçamento").
+  - **Rascunho automático:** salva enquanto digita; ao voltar, "Rascunho recuperado" com opção de
+    descartar. No sistema de verdade o rascunho fica no servidor, por usuário.
+  - **Distância calculada sozinha** pelo endereço de entrega (marca "auto"; pode corrigir).
+  - **Conferência antes de enviar:** o que falta barra (inclui altura obrigatória em caixa maleta);
+    o que parece estranho só avisa (quantidade abaixo da mínima, conjunto sem componentes, prospect
+    sem CNPJ, distância não calculada) com "Corrigir" ou "Enviar assim mesmo".
+  - **Preço-alvo** por item (quanto o cliente quer pagar), ao lado do preço do concorrente.
+  - **Aviso de preço pronto** no sino (e por e-mail); clicar abre a solicitação. Nela, **"Enviar PDF ao
+    comprador"** com o e-mail do comprador já preenchido (PDF só com preço, nunca custo).
+  - Ficaram para depois: ajuda para escolher a qualidade (virá numa funcionalidade própria), arte
+    obrigatória, desenho da caixa aberta, caixas por palete, alerta de solicitação repetida.
   Mesmas regras de cálculo do CRM Salute (chapa por tipo de caixa e onda; área × gramatura da
   qualidade; qtde mín. = 500.000 / peso unit.). Campos obrigatórios conferidos ao enviar.
   Listas (segmentos, prazos, qualidades) vieram do CRM Salute. Ao enviar: protocolo SO-ano-nº
@@ -751,6 +769,11 @@ módulos tiverem suas funcionalidades, faremos uma **revisão geral de integraç
 | Portal › Solicitar orçamento | Controladoria › Custos (fila) | cliente, produto, medidas, quantidades, anexos |
 | Portal › Solicitar orçamento (cliente novo) | Vendas › Prospects e clientes | dados para cadastrar (CNPJ, contato) |
 | Serviço de CEP (ViaCEP/BrasilAPI, via servidor) | Portal › Solicitar orçamento (e todo campo de CEP) | rua, bairro, cidade, UF |
+| Receita (BrasilAPI/ReceitaWS, via servidor) + Vendas › Prospects e clientes | Portal › Solicitar orçamento | dados do CNPJ; se já é nosso, de qual carteira |
+| Portal › Solicitar orçamento (CNPJ de outra carteira) | Vendas › Supervisão | decide quem atende antes de ir para Custos |
+| Serviço de mapas (via servidor) | Portal › Solicitar orçamento | distância da entrega até a fábrica (frete) |
+| Custos (preço pronto) | Sino de notificações + e-mail do representante | aviso com link para a solicitação |
+| Portal › Minhas solicitações | E-mail do comprador (cliente) | PDF do orçamento (só preço) |
 | Vendas › Prazos de pagamento (cadastro) | Portal › Solicitar orçamento | lista para buscar o prazo |
 | Custos (preço pronto) | Portal › Minhas solicitações | preço unitário por quantidade (sem custo/margem) |
 | Portal › "Cliente aceitou" | Vendas › Orçamentos | aprovar e converter em pedido |
